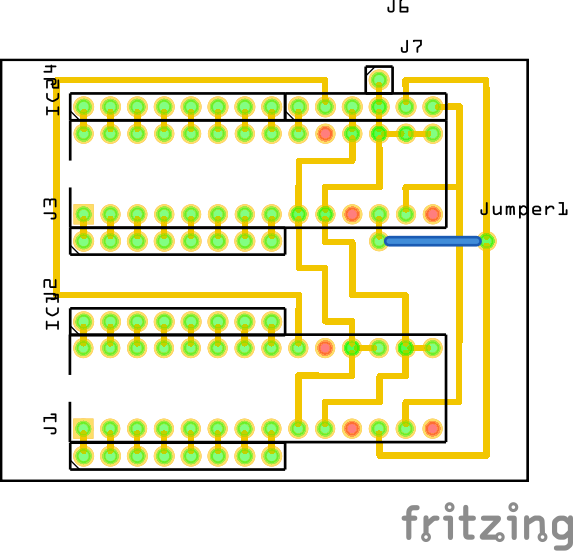
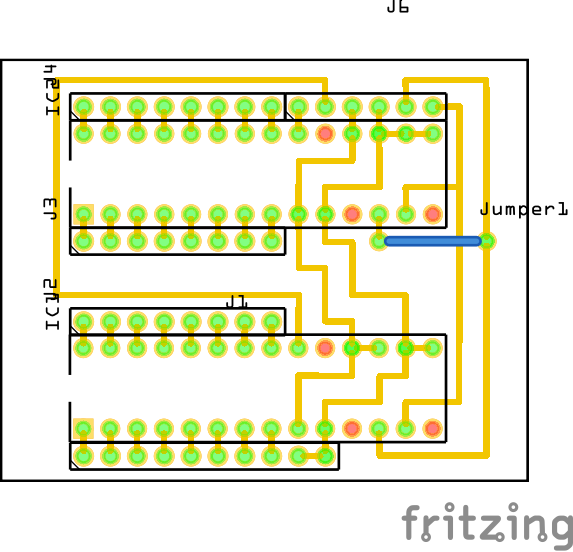
GND female headers added

diff --git a/MCP23017s.md b/MCP23017s.md
@@ -8,7 +8,8 @@ We have two MCP23017 to interface with all encoders. These chips are placed on a
 - 1x 5x7 PCB
 - 2x MCP23017
 - 2x 28pin IC socket
-- 4x female header 8pins (using male jumper cable to all encoders)
+- 3x female header 8pins (using male jumper cable to all encoders)
+- 1x female header 10pins (this one has to extra GND pins)
 - 1x male header 6pins (to Teensy PCB)
 - 1x female-female jumper cable 6pins (to Teensy PCB)
 - 1x male or female 1pin (for ground to all encoders)
